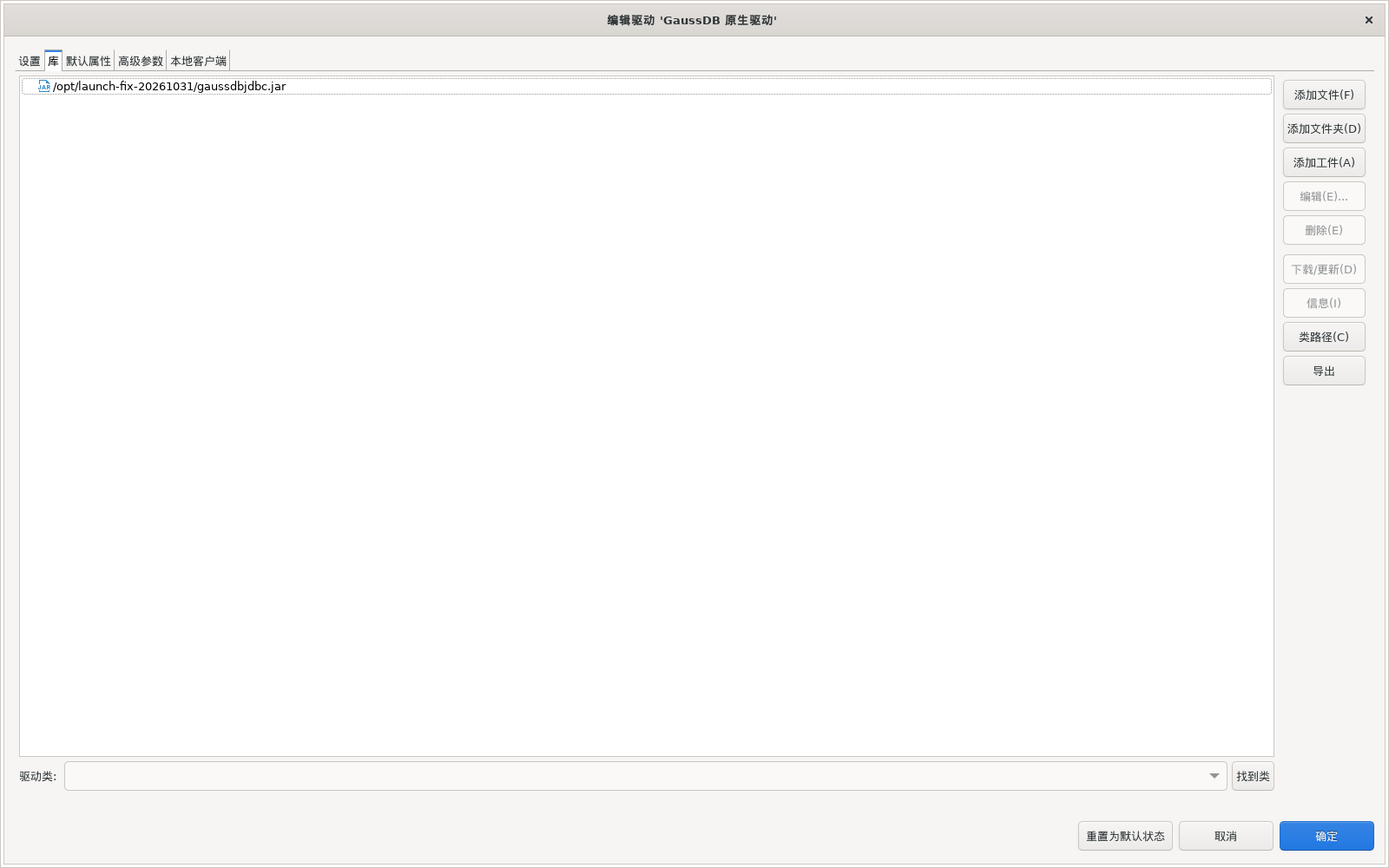
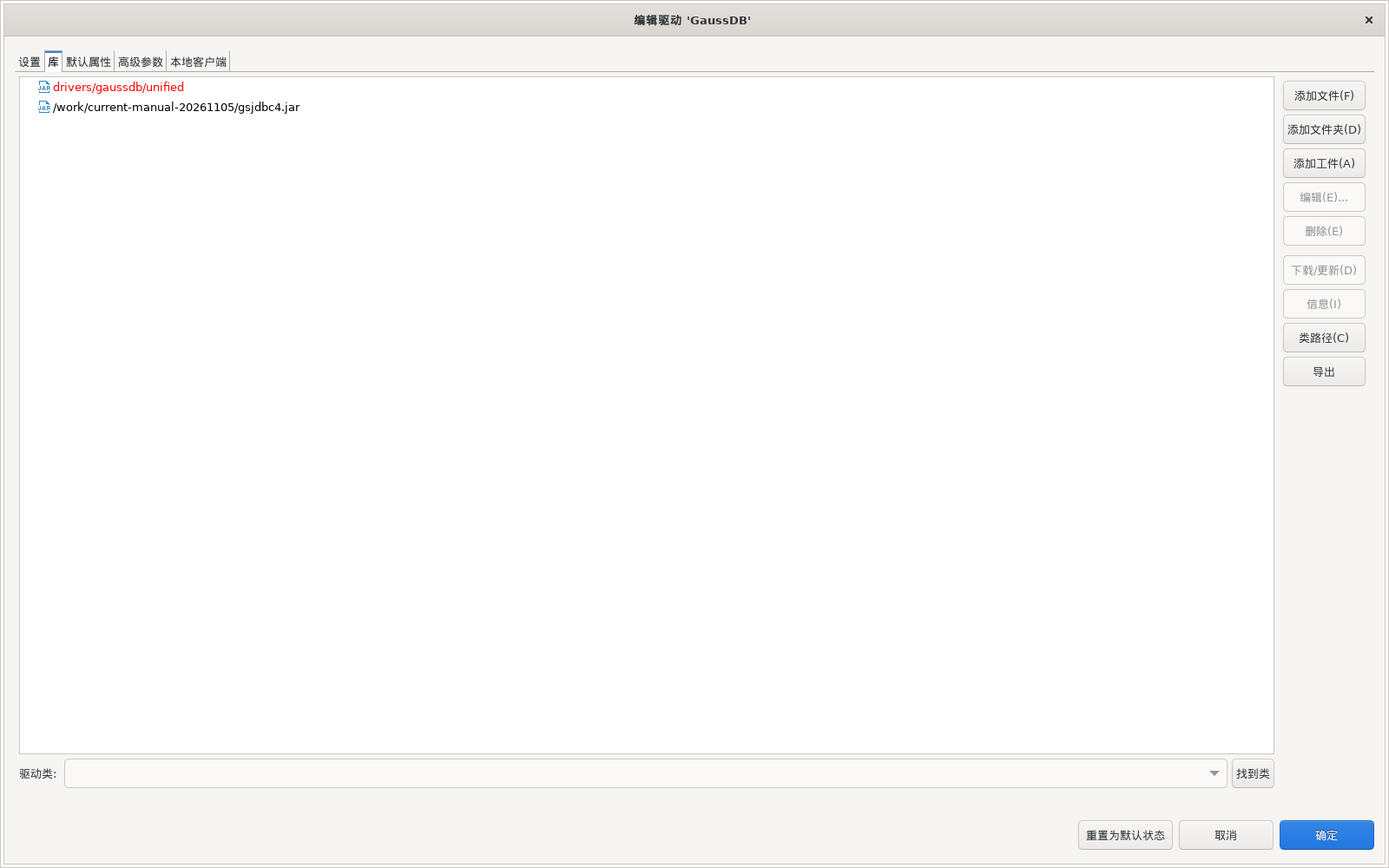
DBeaver: refresh current connection manual and screenshots

diff --git a/DBeaver/26.1.x/README_en.md b/DBeaver/26.1.x/README_en.md
@@ -26,7 +26,7 @@ Source baselines:
 - Test revision: `96690286a163c0f3898fab3d3877098520384f3d`
 
 - [Illustrated GUI operation manual (Chinese)](./GAUSSDB_GUI_OPERATION_MANUAL.md)
-- [Detailed V1.10 operation manual (Word download)](https://github.com/huaweicloud-samples/database-gaussdb-ecosystem/releases/download/dbeaver-gaussdb-26.1.5-kylin-20261105-r3/GaussDB_DBeaver_Debug_and_Package_Manual_20261105.docx)
+- [Detailed V1.11 operation manual (Word download)](https://github.com/huaweicloud-samples/database-gaussdb-ecosystem/releases/download/dbeaver-gaussdb-26.1.5-kylin-20261105-r3/GaussDB_DBeaver_Debug_and_Package_Manual_20261105.docx)
 - [Source components and revisions](./SOURCE-REVISIONS.json)
 
 ## 2. Scope
@@ -35,7 +35,7 @@ Source baselines:
 | --- | --- |
 | Client version | DBeaver 26.1.5 GaussDB Enhanced Edition |
 | Client platform | Kylin V10 x86_64 and ARM64/aarch64, with separate architecture-specific archives |
-| Validated database | This partition and refresh check: centralized GaussDB 507 ORA; historical centralized/distributed 505 records are listed in section 9 |
+| Validated database | Real GaussDB 507 A/M connections; partition and refresh checks use centralized 507 ORA. See section 9 for scope |
 | Compatibility modes | Detects ORA/A, MYSQL/B, TD/C, PG, and M; features are enabled according to server capabilities |
 | PL/SQL debugging | Enabled when the server provides the required `DBE_PLDEBUGGER` signatures and the current user has permission |
 | Package management | Full capability is intended for Package-capable centralized ORA deployments; other deployments use capability-based fallback behavior |
@@ -54,9 +54,9 @@ This ecosystem release provides clients for both architectures, matching product
 - [Release page](https://github.com/huaweicloud-samples/database-gaussdb-ecosystem/releases/tag/dbeaver-gaussdb-26.1.5-kylin-20261105-r3)
 - [SHA256SUMS](https://github.com/huaweicloud-samples/database-gaussdb-ecosystem/releases/download/dbeaver-gaussdb-26.1.5-kylin-20261105-r3/SHA256SUMS)
 - [Complete enhanced source, including matching dbeaver-common](https://github.com/huaweicloud-samples/database-gaussdb-ecosystem/releases/download/dbeaver-gaussdb-26.1.5-kylin-20261105-r3/dbeaver-gaussdb-enhanced-source-20261105-r3.tar.gz)
-- [V1.10 connection and debugging manual (Word)](https://github.com/huaweicloud-samples/database-gaussdb-ecosystem/releases/download/dbeaver-gaussdb-26.1.5-kylin-20261105-r3/GaussDB_DBeaver_Debug_and_Package_Manual_20261105.docx)
+- [V1.11 connection and debugging manual (Word)](https://github.com/huaweicloud-samples/database-gaussdb-ecosystem/releases/download/dbeaver-gaussdb-26.1.5-kylin-20261105-r3/GaussDB_DBeaver_Debug_and_Package_Manual_20261105.docx)
 
-The standalone Word asset has an ASCII filename for download compatibility and Chinese content. The client archive retains the Chinese filename. Word is updated to V1.10 with R3 download links and illustrated partition instructions. The online steps and screenshots for both architectures are in section 8 of this guide.
+The standalone Word asset has an ASCII filename for download compatibility and Chinese content. The client archive retains the Chinese filename. Word is updated to V1.11 with current unified-connection workflow, driver-class and JDBC-option screenshots, and illustrated partition instructions. The online steps and screenshots for both architectures are in section 8 of this guide.
 
 For installation, download the appropriate client and use the online or Word guide. Download the complete source archive when building or reviewing the implementation.
 
@@ -112,7 +112,7 @@ Complete the connection before starting routine or Package debugging. See the [o
 
 1. Obtain the reachable server host, port, database name, account, and compatibility mode from the database administrator. The host is a database endpoint, not the client extraction directory.
 2. Open **Database → New Database Connection**, or the new-connection toolbar action, and select the single **GaussDB** entry for both O/A/ORA and M databases. Add the matching JDBC JAR as described below.
-3. Enter the connection details. For M databases, select **M compatibility: mCompatible=true, yearIsDateType=true**; leave it cleared for A/O databases. This sets JDBC properties for this connection and does not change the database compatibility mode. Run **Test Connection**, finish the wizard, and confirm that the connection expands in **Database Navigator**.
+3. Enter the connection details. For M databases, select **M compatibility: mCompatible=true, yearIsDateType=true**; leave it cleared for A/O databases. This sets JDBC properties for this connection and does not change the database compatibility mode. Omit `mCompatible` and `yearIsDateType` from URL query strings; the page reports a conflict and prevents connecting until they are removed. Run **Test Connection**, finish the wizard, and confirm that the connection expands in **Database Navigator**.
 4. Expand the database and schema, check the tables and supported routines or packages, then follow sections 6 and 7 for debugging and compilation.
 
 
@@ -135,6 +135,18 @@ The unified new-connection picker, with legacy definitions retained for saved co
 
 ![The new-connection picker shows one GaussDB entry](./imgs/new-connection-gaussdb.png)
 
+Select the explicit M option on the main connection page for M databases; leave it cleared for A/O databases:
+
+![Explicit M compatibility options on the main connection page](./imgs/connection-m-options.png)
+
+Choose **Edit Driver Settings** to verify the driver class. In host mode, return to the main page to confirm the generated JDBC URL:
+
+![Driver class and URL template](./imgs/connection-driver-class.png)
+
+The connection's **Driver properties** page shows the effective JDBC options; `mCompatible=true` corresponds to the selected M checkbox:
+
+![JDBC properties for this connection](./imgs/connection-driver-properties.png)
+
 ## 6. Debug a stored procedure or function
 
 ### 6.1 Start a debug session
@@ -152,7 +164,7 @@ To pass SQL NULL for the entire parameter, select SQL NULL in the input-mode col
 
 ![Composite argument fields after suspension](./imgs/object-parameter-debug.png)
 
-The generic **Run** > **Run Configurations...** menu remains available for other launch types; the database debug type is offered only in **Debug Configurations**. Execute ordinary SQL in the SQL editor. If an older build reports `No tab group defined` when creating an entry in **Run Configurations**, close that dialog, use the database debug entry above, and update to this build. Do not delete the workspace.
+The generic **Run** > **Run Configurations...** menu remains available for other launch types; the database debug type is offered only in **Debug Configurations**. Execute ordinary SQL in the SQL editor.
 
 ![Debug source and breakpoint](./imgs/debug-source.png)
 
@@ -202,7 +214,7 @@ Package member debugging requires a transaction-scoped `SET LOCAL search_path`. 
 
 The **Breakpoints** view retains configured breakpoints for the entire workspace after a session ends or the client restarts. It is not a log of breakpoint hits in the current execution. One connection can contain different databases, routines and lines, so identical connection labels do not by themselves indicate duplicates. Multiple records with the same connection, database, routine OID and line are duplicates.
 
-Breakpoint labels include the connection identity, including when a custom label is used. Toggling a breakpoint at the same source line removes all matching duplicate records while preserving other connections. The client does not clear historical breakpoints automatically. Select unused breakpoints in the **Breakpoints** view to remove them, or uncheck them to disable them.
+Breakpoint labels include the connection identity, including when a custom label is used. Toggling a breakpoint at the same source line removes all matching duplicate records while preserving other connections. The client does not clear saved breakpoints automatically. Select unused breakpoints in the **Breakpoints** view to remove them, or uncheck them to disable them.
 
 In **Breakpoints**, a single click selects a breakpoint; double-click to open its source and navigate to the breakpoint line. Merely switching to the Breakpoints or another view tab does not open source automatically. On initial or slow loading, execution-line and instruction-pointer positioning waits until the source document has loaded. After a source tab is closed or another view is selected, outdated asynchronous source results are ignored so the tab is not reopened and focus is not taken back.
 
@@ -274,64 +286,17 @@ The same operation in the Kylin V10 ARM64 container:
 | Same connection with cached children: add a subpartition, F5 changes tree and list from 2 to 3 | Passed | Passed |
 | Drop that subpartition, F5 returns tree and list from 3 to 2 | Passed | Passed |
 
-The seven tables' actual metadata, property descriptors and boundaries match line for line. All 451 identically named shared JARs in the two products match byte for byte. ARM coverage in this round is the GUI and metadata smoke comparison above; it does not establish full ARM acceptance of all historical debugging, Package, or customer virtual-desktop scenarios.
-
-### 9.2 Historical validation records
-
-The following results retain their original build dates. Newly executed R3 checks are listed above; complete historical GUI suites, 505-server checks and other environments were not rerun in this round.
-
-Historical 2026-11-05 R2 was a connection-manual and source-delivery revision. Java plug-ins remain the R1 build; the R1 full-regression records below were not rerun for R2. Validation of the new connection walkthrough: A translated Kylin V10 x86_64 container connected to centralized 507 ORA using a fresh connection wizard, the native driver and a local JDBC jar; field entry, authentication without saved password, successful connection test, saved navigation, SQL queries confirming Kernel 507/current database/user/sql_compatibility=A, and the Error Log view were exercised. Thirteen complete-window screenshots were captured. The revised Word manual has 43 pages and 24 images, all visually checked.
-
-Validation of the 2026-11-05 R1 build:
-
-- Fix cross-schema composite argument calls by resolving the parameter's actual type OID and qualifying its owning schema. User-defined types no longer depend on the current search path; built-in type formatting is preserved.
-- The completion dialog explains that only the remaining transaction is affected, prior commits inside the routine cannot be rolled back, and source code is not saved. Rollback remains the default.
-- Main regression: 3,137 cases, with 2,953 passed, 184 conditionally skipped, zero failures or errors; seven regression cases were added since R6. All 204 product build modules succeeded. Fresh extraction passed all 1202 inventory entries, and 6 key production plugins byte-match the tested GUI copy.
-- Centralized 507 ORA GUI checks: a Kylin V10 x86_64 container running through Rosetta/instruction translation and sharing the LinuxKit kernel debugged `(1,张三)` and `(2,"Alice, Jr.")`, paused, and displayed their fields correctly. After an actual commit, an independent connection read back the expected input values.
-- SQL NULL and internal-COMMIT verification: A whole-object SQL NULL argument launched and completed successfully; an independent connection confirmed one committed row for each composite example and one SQL NULL row. On 507, `info_locals()` can display NULL composite fields as `0/<UNKNOWN>`; these placeholders are not claimed as exact field values. The internal-COMMIT scenario inserted 901 and committed, then inserted 902. Final rollback preserved 901, removed the uncommitted 902, and left no live debug target or process.
-
-The following R6 and earlier results are historical records; their complete suites were not rerun for this build:
-
-Validation of the 2026-11-03 R6 build:
-
-- R6 cursor state: supports the inline state text returned by 507 `info_locals()` and the older name-based hidden-attribute format. Attributes are matched by complete cursor name, Package, and frame; missing, invalid, duplicate, or conflicting data is preserved rather than guessed. Cursor summaries and children are read-only; watches support the cursor and its `%ISOPEN`, `%FOUND`, `%NOTFOUND`, and `%ROWCOUNT` attributes.
-- R6 watch refresh: retains stable variable and attribute snapshot identities. Suspension creates missing debug views without activating Variables or Breakpoints, preserving the visible Expressions tab.
-- R6 main regression: 3,130 cases, with 2,946 passed, 184 conditionally skipped, zero failures or errors; this build adds 87 regression cases.
-- R6 live protocol checks: centralized 507 ORA, covering OPEN, successful and unsuccessful FETCH, CLOSE, multiple cursors, and frame switching; 86 assertions per round, repeated twice with both rounds passing. The older name-based hidden format is unit-tested against supplied protocol fixtures; this release does not claim a new 505-server validation of that format.
-- R6 product build and GUI acceptance: All 204 Maven modules built successfully. The final R6 GUI ran in a translated Kylin V10 x86_64 container with a fresh workspace connected to centralized 507 ORA. The real Variables and Expressions views refreshed the cursor and cur%ROWCOUNT watch after OPEN, the first and second FETCH, exhaustion with NOTFOUND, and CLOSE. Both views expanded all four state attributes and NAME with read-only protection. The selected frame, source caret, and execution annotation aligned at line 10. F9 completed normally; rollback left no live debug target or process, and the client exited normally. The six production bundles match the final GUI copy byte for byte; the extracted archive passed all 1,202 manifest entries. Same-frame cursor isolation and ambiguity across Packages are unit-tested; this combination is not claimed as GUI-validated.
-
-The R5, R4, R3, and R2 entries below are historical records; their complete suites were not rerun with R6:
-
-- R5 fixes debug completion state synchronization. Continue and stepping synchronize target and thread running states and clear stale stack frames; the next suspension reads a fresh stack. Resume is disabled while commit/rollback is pending, and outdated queued resume actions are ignored, preventing completed sessions from being treated as resumable paused sessions.
-- R5 fixes completion detection during Package stepping. An independent JDBC protocol probe against a live 507 server found that reaching a child routine END can return `[EXECUTION FINISHED]` while child and caller frames remain. The client now matches the marker exactly and reads the backtrace on the same controller connection; a remaining stack is treated as a pause. It does not infer completion from routine OIDs, which may repeat in recursion. Routine completion requires the target CALL to return successfully; only the expected `D0005` backtrace state is treated as a completion signal, and other errors remain visible. This server behavior was confirmed by an independent protocol probe and the revised-client GUI checks below.
-- R5 matches error-response markers exactly, so similar text inside source strings or comments is not mistaken for a debug failure. Genuine server error markers still terminate the debug session and report the error.
-- R5 main regression: 3,043 total, 2,859 passed, 184 conditionally skipped, zero failures or errors; this build adds 45 regression cases (19 model-state and race cases, and 26 completion/error-marker cases). The R4, R3 and R2 GUI checks below are historical results and were not rerun with R5.
-- R5 live GUI checks: a translated Kylin V10 x86_64 container connected to centralized GaussDB 507 ORA. R4 reproduced a completed state with two stack frames still present, followed by `not suspended` on Continue. In R5, F7 entered run_demo → build_result → calc_amount, crossed the server-reported build_result line 0, returned to run_demo line 8, and stepped to normal completion. A second run remained resumable and incomplete at build_result line 0; clicking Continue completed normally.
-- R5 transaction checks: Resume and stepping actions were disabled while the final commit/rollback dialog was displayed. After the first run committed, an independent connection read one row. The second run rolled back, and the independent row count remained one.
-- R5 product build: 204/204 Maven modules succeeded. The six production bundles involved in the repair are byte-identical to those used for GUI acceptance.
-
-- R4 product build: 204/204 Maven modules succeeded. The extracted release archive passed manifest verification for 1,202 entries; the six production bundles involved in the repair match the GUI acceptance copy.
-- Historical R4 main regression: 2,998 total, 2,814 passed, 184 conditionally skipped, zero failures or errors; R4 added 29 regression cases and retained the 69 cases added in R3.
-- R4 live GUI checks preserve a real R3 workspace breakpoint across the version restart. Single-click selects without opening an editor. Cold double-click, double-click while the object is on Properties, and the Go to File context action all navigate to source line 6. An injected eight-second source-query delay still ends at line 6. Repeated single-clicks after closing all editors do not reopen source.
-- R4 launch checks: Run Configurations lists only other runnable types. The saved database configuration in Debug Configurations remains valid with Debug enabled. An actual run_demo Package launch pauses with both caret and execution annotation at line 6, then continues to completion with rollback selected.
-- R3 live GUI checks: explicit per-launch Package acknowledgement; declining leaves no live debug targets or processes. Initial suspend, double-click reopening and three-level F7 navigation place both caret and execution annotation at lines 6, 4 and 6. Closing source or using a native mouse click to return to Breakpoints remains stable for 10 seconds without reopening or focus theft.
-- Previously completed in R2: Kylin V10 x86_64 GUI connected to a local centralized GaussDB 507 server: 100 bulk schemas, approximately 15,000 procedures, 3,000 functions, 208 packages and 3,900 synthetic composite types in the database.
-- Previously completed in R2: each of two JDBC drivers completed three refresh rounds, with 500 tasks and 12 worker threads per round. The driver concurrency exception reproduced with the previous build did not recur.
-- Previously completed in R2: M-mode main and metadata connection initialization, table data reading and debug parameter panel creation passed.
-- R2 adds 23 regression cases. GUI checks cover restored duplicate breakpoints across restart, removing matches while preserving another connection, selecting run_demo in a new configuration, F7 into build_result and calc_amount with three frames, frame-specific variables and correct source, and F8 producing amount 30. Commit adds a row; a subsequent rollback leaves the row count unchanged.
-- R4 and R3 GUI validation used a Rosetta-translated Kylin V10 x86_64 container on Apple Silicon and a centralized 507 ORA server. R2 previously checked a 505 JDBC driver against that server. These checks do not constitute 505 server or native x86 virtual-desktop acceptance.
-
-The 2026-10-14 baseline previously passed centralized and distributed 505 live-database and independent acceptance checks. That full historical suite was not rerun for this repair build. Persistent loading in a target environment still needs an upgrade retest to establish whether its cause matches the repaired driver concurrency exception.
+The seven tables' actual metadata, property descriptors and boundaries match line for line. All 451 identically named shared JARs in the two products match byte for byte. ARM coverage in this round is the GUI and metadata smoke comparison above; it does not establish full ARM acceptance of all debugging, Package, or customer virtual-desktop scenarios.
 
 ## 10. Current boundaries
 
 - This release provides Kylin V10 x86_64 and ARM64/aarch64 packages. Windows and macOS packages were not built and accepted in this round.
-- Historical object-parameter GUI coverage is limited to the composite examples above; it does not establish acceptance for every object, array or domain type. ARM coverage in this round is limited to section 9.1. Neither container comparison replaces acceptance on customer hardware, a native Kylin kernel or a virtual desktop.
+- Object-parameter guidance covers the composite examples above; it does not establish acceptance for every object, array or domain type. ARM coverage in this round is listed in section 9.1. Neither container comparison replaces acceptance on customer hardware, a native Kylin kernel or a virtual desktop.
 - Locally rebuilt Linux native libraries in the package are not digitally signed. Verify integrity with the published SHA-256 digest and product manifest.
 - GaussDB JDBC, `gs_dump`, `gs_restore`, and other native database tools are not distributed with the client.
 - PL/SQL debugging depends on server debug APIs, compatibility mode, routine language, and user permissions.
 - Package error navigation depends on Package and compilation-diagnostic capabilities in the target server version.
-- Paused local cursors expose server-supplied state only. Result rows, original SQL, and column-structure previews require a future server interface. The older name-based hidden format is covered by protocol-fixture unit tests; the historical live-server cursor coverage uses the 507 inline format.
+- Paused local cursors expose server-supplied state only. Result rows, original SQL, and column-structure previews require a future server interface. Confirm the returned format and required permissions on the target server version.
 - Before first use in a target environment, verify the digest and run organization-specific connection, debugging, transaction, and Package acceptance tests.
 
 ## 11. Build from the delivered source
@@ -353,7 +318,7 @@ mvn -f product/aggregate/pom.xml -Pproduct-dbeaver-ce package \
 
 The application qualifier is `20261105r3`, and the delivery revision is `20261105-r3`. `-DskipTests=true` packages the product without executing tests. Maven/P2 dependencies must be reachable or available in a complete, matching offline cache; downloading the source alone does not guarantee an automatic offline build.
 
-The command builds the Java/Eclipse product. Recreating the Kylin archive additionally requires matching native libraries, pinned SWT/Equinox sources, JRE, Node.js 22+, and assembly tools. See `product/community/kylin/README.zh-CN.md` and `THIRD-PARTY-SOURCES.md` in the source. Auditable source and platform build validation do not imply byte-identical rebuilds. Upstream and historical Markdown files remain source material; use the linked V1.10 manual for customer operations.
+The command builds the Java/Eclipse product. Recreating the Kylin archive additionally requires matching native libraries, pinned SWT/Equinox sources, JRE, Node.js 22+, and assembly tools. See `product/community/kylin/README.zh-CN.md` and `THIRD-PARTY-SOURCES.md` in the source. Auditable source and platform build validation do not imply byte-identical rebuilds. Use the linked V1.11 manual for customer operations and the bundled build instructions for source builds.
 
 ## 12. Licensing
 

diff --git a/DBeaver/26.1.x/RELEASE_NOTES_en.md b/DBeaver/26.1.x/RELEASE_NOTES_en.md
@@ -12,12 +12,12 @@ Release tag: `dbeaver-gaussdb-26.1.5-kylin-20261105-r3`. This release provides K
 | `dbeaver-ce-26.1.5-gaussdb-linux-aarch64-20261105-r3.tar.gz` | Linux ARM64 client with Java 21 |
 | Architecture-specific `*.PRODUCT-MANIFEST.json` | Application file, permission, and link inventory |
 | `dbeaver-gaussdb-enhanced-source-20261105-r3.tar.gz` | Complete enhanced source, matching dbeaver-common, and source inventory |
-| `GaussDB_DBeaver_Debug_and_Package_Manual_20261105.docx` | V1.10 connection, debugging, and Package manual (Chinese) |
+| `GaussDB_DBeaver_Debug_and_Package_Manual_20261105.docx` | V1.11 connection, debugging, and Package manual (Chinese) |
 | `SHA256SUMS` | Expected digests for the release assets |
 
 See the [guide](./README_en.md#3-download-and-integrity-verification) for downloads and architecture selection. Use the final [Release SHA256SUMS](https://github.com/huaweicloud-samples/database-gaussdb-ecosystem/releases/download/dbeaver-gaussdb-26.1.5-kylin-20261105-r3/SHA256SUMS) for integrity checks. Select the explicitly named `dbeaver-gaussdb-enhanced-source-20261105-r3.tar.gz` for enhanced DBeaver source; GitHub's default Source code links archive the ecosystem documentation tree.
 
-The Word manual is updated to V1.10 with R3 download links and illustrated partition instructions. Online steps and complete-window screenshots for both architectures are in [section 8 of the online guide](./README_en.md#8-inspect-partitions-and-subpartitions).
+The V1.11 Word manual includes current full-window instructions for the unified connection entry, driver configuration, M options, debugging, Packages and partitions. Online steps and complete-window screenshots for both architectures are in [section 8 of the online guide](./README_en.md#8-inspect-partitions-and-subpartitions).
 
 ## Fixes
 
@@ -39,7 +39,7 @@ Java functional revision: `83c09896ee825b0b10c2462ef10001733128d087`. Complete d
 - Both clients passed first-level expansion, Subpartitions page and boundaries, and leaf-folder hiding. With the same connection and cached children, adding a subpartition and pressing F5 changed the tree and list from 2 to 3; dropping it and pressing F5 restored 2.
 - All 451 identically named shared JARs match byte for byte. Both archives were freshly extracted and passed their 1,202-entry application inventories.
 
-Historical connection, debugging, cursor, composite-argument, and Package results retain their original build dates in [section 9 of the guide](./README_en.md#9-validation-results). They do not establish that all historical scenarios were rerun in this round or on ARM.
+See [section 9 of the guide](./README_en.md#9-validation-results) for this release's actual checks and x86_64/ARM64 comparison. Complete connection, debugging, transaction and Package acceptance in the target environment.
 
 ## Boundaries
 
